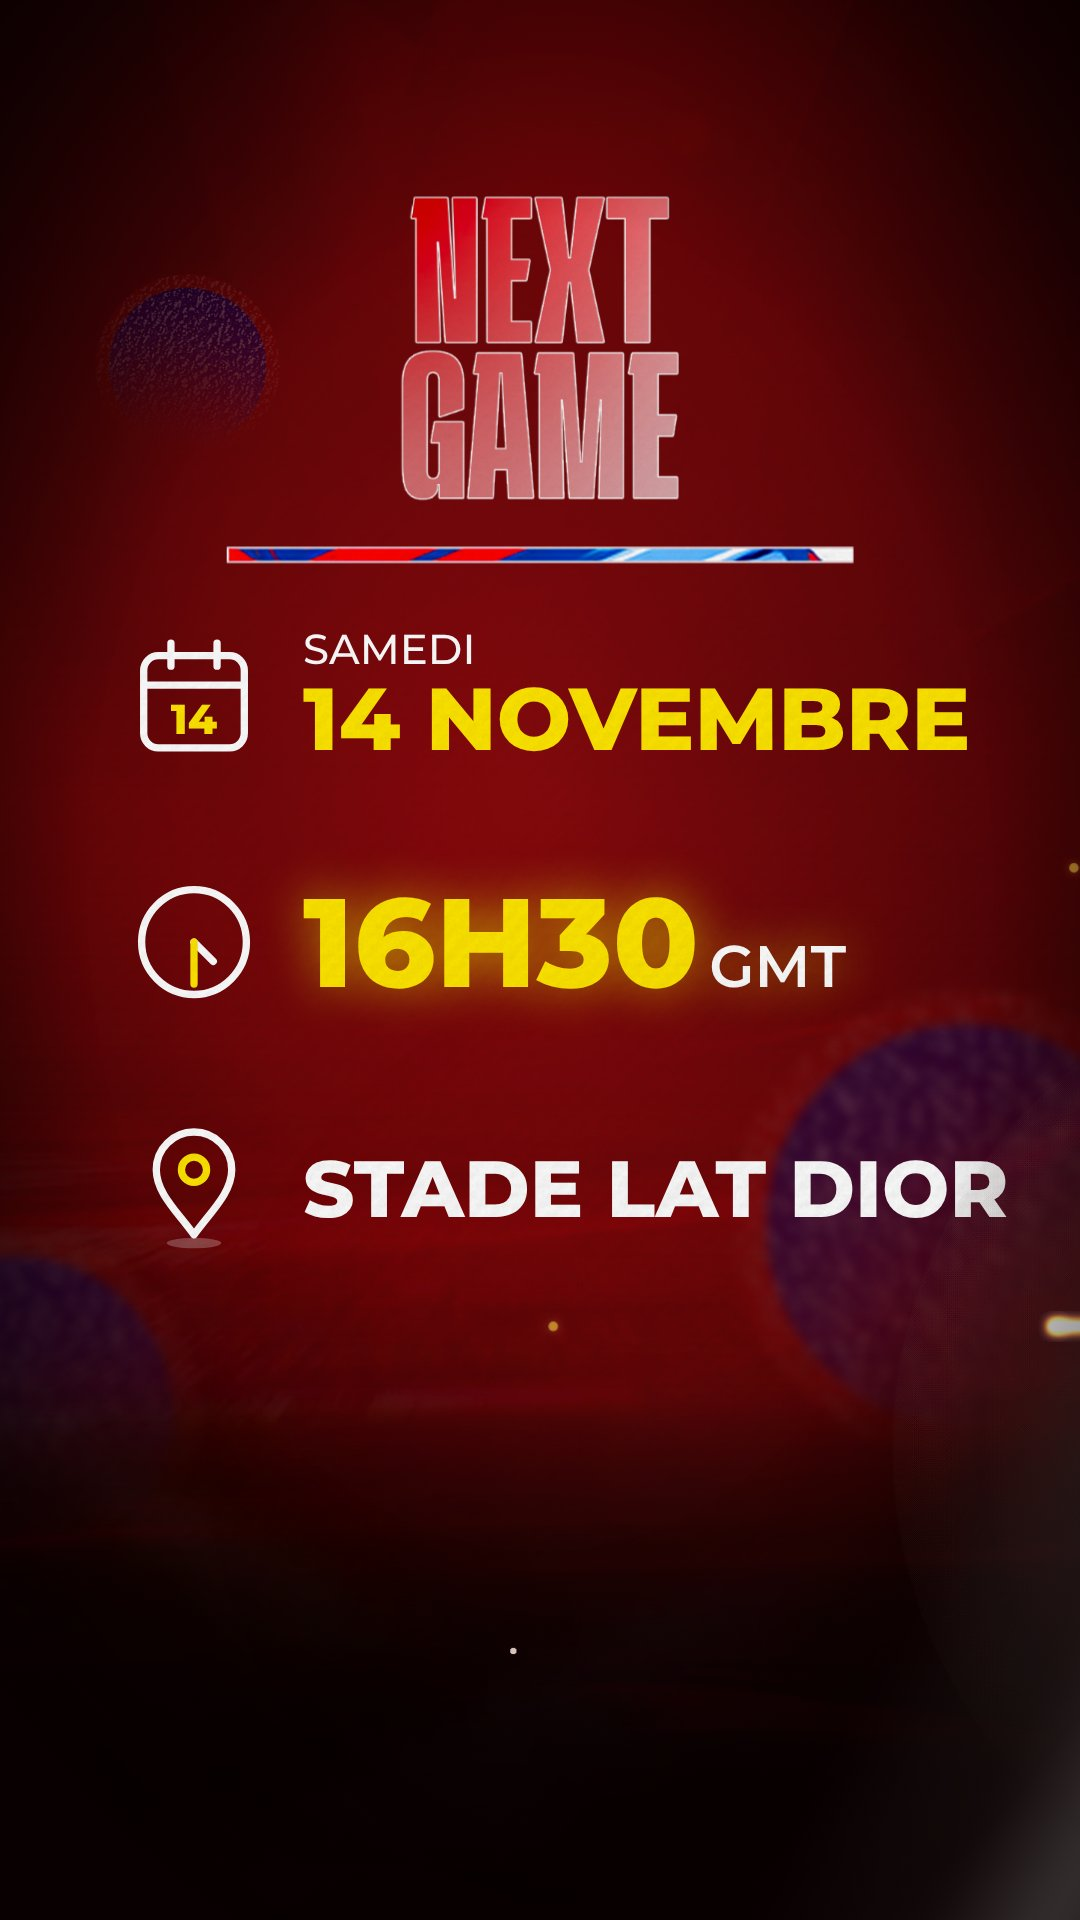
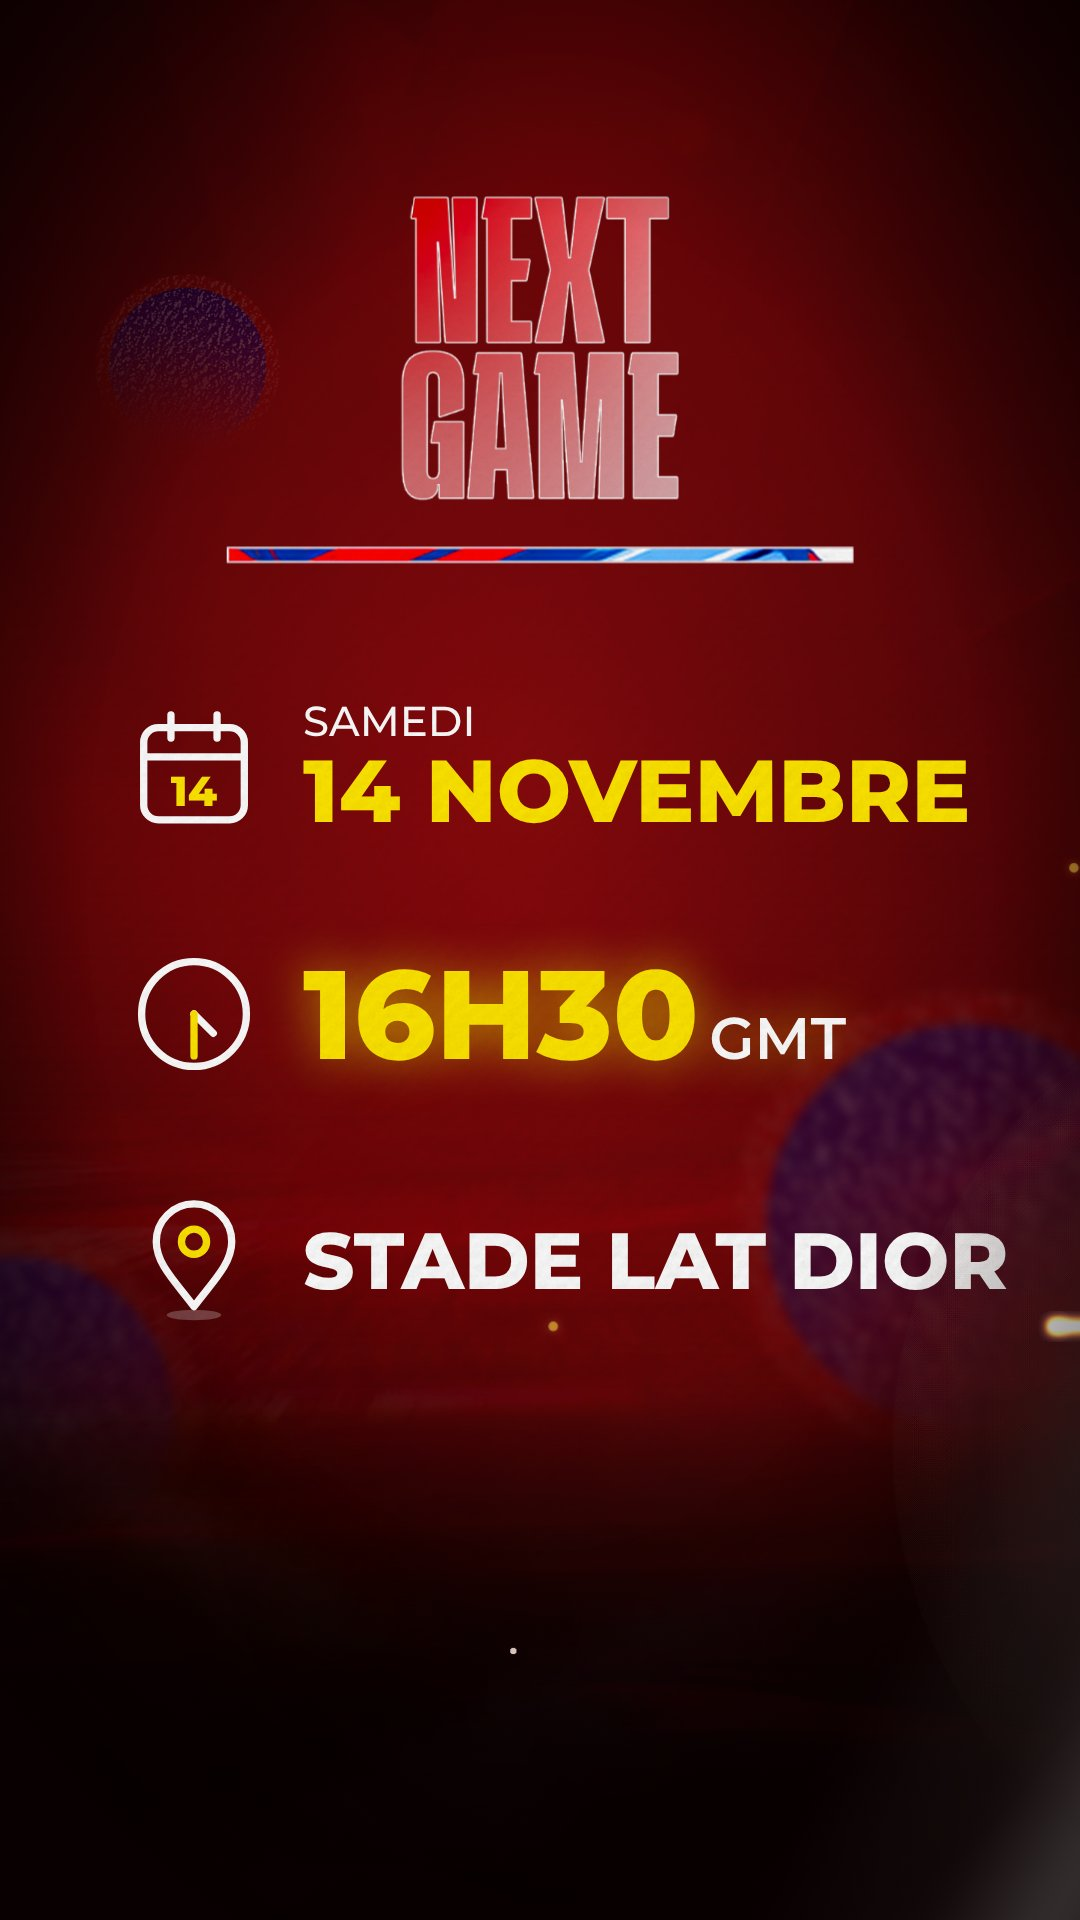
Plan 18-25 s : informations descendues
Claude-Session: https://claude.ai/code/session_01CJgvnF5VURsKT4vojm1dRz

diff --git a/src/index.html b/src/index.html
@@ -81,7 +81,7 @@ body{font-family:MS,sans-serif;color:#fff;-webkit-font-smoothing:antialiased}
 .row .lbl{font:500 40px/1.1 MS;color:#fff;display:block}
 .row .big{font:800 84px/1.05 MS;color:var(--yellow);display:block;white-space:nowrap}
 .row .big small{font-size:56px;color:#fff;font-weight:600;margin-left:10px}
-#r1{top:610px}#r2{top:850px}#r3{top:1090px}
+#r1{top:680px}#r2{top:920px}#r3{top:1160px}
 #r2 .big{font-size:120px}
 #r3 .big{color:#fff;font-size:76px}
 
